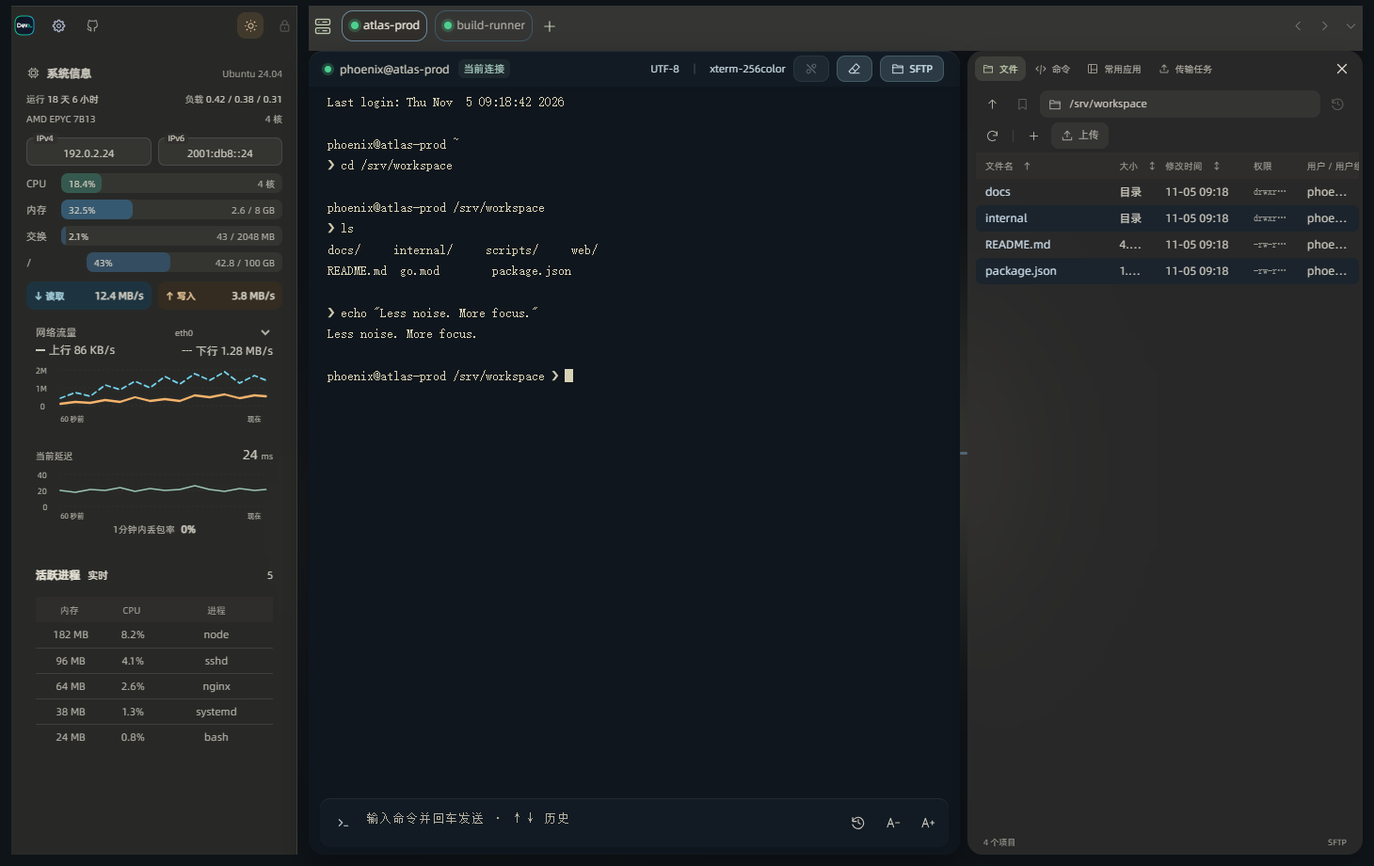
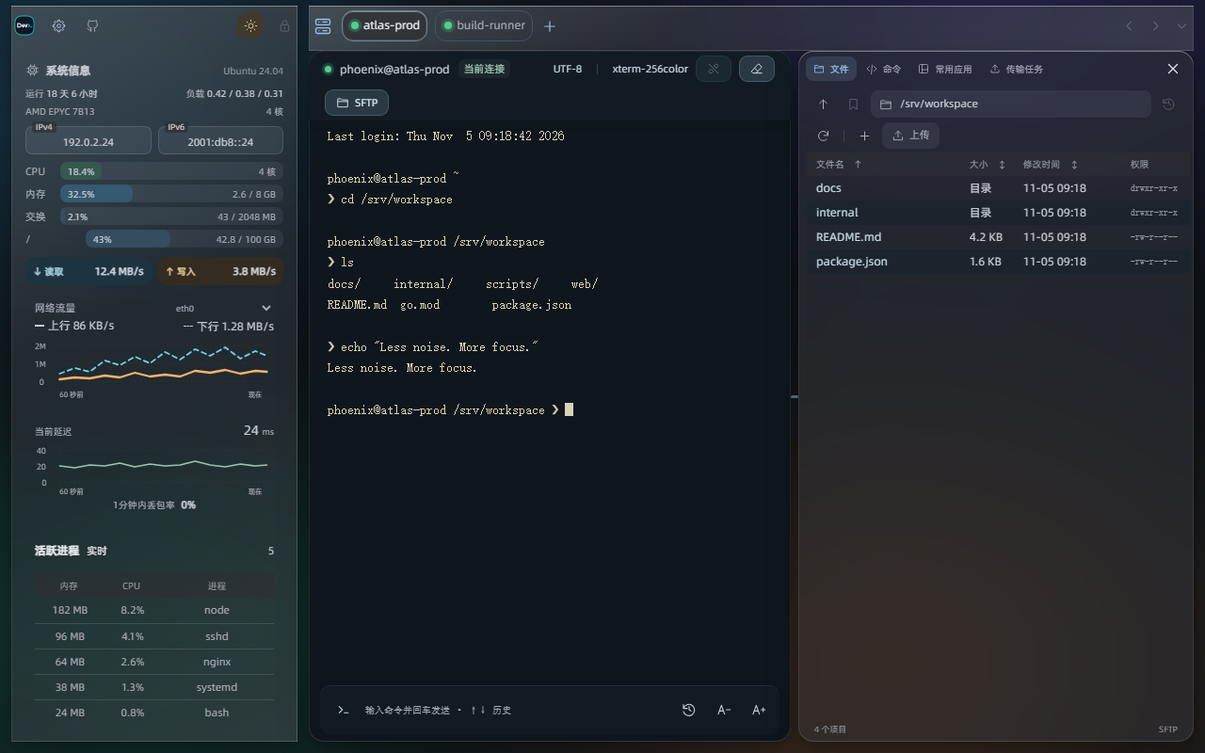
毛玻璃升级为液态玻璃折射材质
面板更透明并加强底衬饱和（saturate 1.5–1.7），底层四团光色缓慢漂移
供折射（liquid-drift，减少动态时静止）；--glass-edge 内阴影模拟边缘
聚光、--glass-sheen 叠加镜面光泽，配长弥散投影。配色由暖灰转向冷
玻璃、强调色改湖蓝；默认终端文字改冷灰 #dbe1e8。展示名毛玻璃改为
液态玻璃（样式键 frosted 不变，已存偏好无缝沿用），回退链保持不变。

验证：npm run check、test:theme、test:tcp 通过；预览与截图重新生成，
浅深色均验证边缘高光与折射效果。

diff --git a/web/css/ui-styles.css b/web/css/ui-styles.css
@@ -30,13 +30,14 @@
 [data-theme="dark"] .ui-style-swatch-classic { background:#0f1419; }
 [data-theme="dark"] .ui-style-swatch-classic :is(i,b) { background:#24303a; }
 [data-theme="dark"] .ui-style-swatch-classic em { background:#0f161d; }
-.ui-style-swatch-frosted { background:#45413a; }
-.ui-style-swatch-frosted i { inset:0 auto 0 0; width:29%; border-radius:0; background:#302f2ccc; border-right:1px solid #fff9e31c; }
-.ui-style-swatch-frosted b { background:#3d3c39dd; box-shadow:inset 0 1px #fffbe521; }
-.ui-style-swatch-frosted em { background:#242423ca; box-shadow:inset 0 1px #fffbe526,0 0 22px #96804f3d; }
-[data-theme="light"] .ui-style-swatch-frosted { background:#e8e6df; }
-[data-theme="light"] .ui-style-swatch-frosted i { background:#f1f0eaba; border-color:#55533c24; }
-[data-theme="light"] .ui-style-swatch-frosted b { background:#fffefad1; box-shadow:inset 0 1px #fff; }
+.ui-style-swatch-frosted { background:#22252b; }
+.ui-style-swatch-frosted i { inset:0 auto 0 0; width:29%; border-radius:0; background:#2e3238b3; border-right:1px solid #ffffff20; box-shadow:inset -14px 0 26px -14px #4f97d466; }
+.ui-style-swatch-frosted b { background:#383c43cc; box-shadow:inset 0 1px #ffffff4d; }
+.ui-style-swatch-frosted em { background:#181a1da6; box-shadow:inset 0 1px #ffffff33,0 0 22px #4f97d433; }
+[data-theme="light"] .ui-style-swatch-frosted { background:#dde2e9; }
+[data-theme="light"] .ui-style-swatch-frosted i { background:#ffffff8c; border-color:#3c4d5f33; }
+[data-theme="light"] .ui-style-swatch-frosted b { background:#ffffffd9; box-shadow:inset 0 1px #fff; }
+[data-theme="light"] .ui-style-swatch-frosted em { background:#1d2126bf; box-shadow:inset 0 1px #ffffff2e; }
 .ui-style-swatch-polar { background:#20242c; }
 .ui-style-swatch-polar i { background:#2e3440dd; border-right:1px solid #434c5e; }
 .ui-style-swatch-polar b { background:#3b4252; }
@@ -56,65 +57,79 @@
 #ui-styles-dialog .ui-style-status { margin:0; min-height:18px; font-size:12px; color:var(--muted); }
 @media(max-width:520px) { #ui-styles-dialog { padding:18px; } .ui-style-grid { gap:10px; } .ui-style-swatch { height:88px; } }
 
-/* —— 毛玻璃：中性暖灰透光材质（经典保持原配色不受影响） —— */
+/* —— 液态玻璃：折射底层色彩并在边缘聚光的半透明材质（经典配色不受影响）。
+   区别于平铺磨砂：面板更透明、底衬采样加强饱和，让底层流动的光色透过玻璃；
+   边缘高光与内阴影模拟透镜聚光，表面罩一层镜面光泽，配长而弥散的投影，
+   面板像悬浮在内容之上的玻璃板。样式键保持 frosted，仅展示名改为液态玻璃。 —— */
 :root[data-ui-style="frosted"][data-theme] {
-  --glass-base:#393633; --glass-surface:rgb(47 46 44 / .79); --glass-toolbar:rgb(61 60 57 / .84);
-  --glass-sidebar:rgb(48 47 44 / .76); --glass-popup:rgb(48 47 44 / .96); --glass-input:rgb(255 250 230 / .055);
-  --glass-terminal:rgb(30 30 29 / .68); --glass-solid:#302f2c; --glass-terminal-solid:#242423;
-  --surface:var(--glass-surface); --surface-inset:var(--glass-input); --surface-hover:#fff7df0c; --surface-selected:#bcc9ac24;
-  --text:#e6e2d6; --text-secondary:#c9c6bb; --muted:#b0ada3; --text-faint:#a09e95; --accent:#c1ceb0; --border:#fff9e31c;
-  --focus-surface:#bcc9ac28; --focus-input:#3d3b36; --primary-focus:#7b8b6e; --shadow:0 8px 28px #0003;
+  --glass-base:#2a2c30; --glass-sheen:linear-gradient(150deg,#ffffff22,#ffffff00 42%,#ffffff00 58%,#ffffff0f);
+  --glass-surface:rgb(45 47 51 / .66); --glass-toolbar:rgb(56 58 62 / .64);
+  --glass-sidebar:rgb(45 47 51 / .68); --glass-popup:rgb(48 50 54 / .84); --glass-input:rgb(232 240 250 / .07);
+  --glass-terminal:rgb(19 21 23 / .64); --glass-solid:#313338; --glass-terminal-solid:#1b1d20;
+  --glass-edge:inset 0 1px 0 #ffffff55,inset 0 -1px 0 #ffffff14,inset 0 0 0 1px #ffffff14;
+  --surface:var(--glass-surface); --surface-inset:var(--glass-input); --surface-hover:#ffffff12; --surface-selected:#9fc4e024;
+  --text:#e7eaf0; --text-secondary:#c9cdd5; --muted:#a9adb6; --text-faint:#979ca6; --accent:#93c2e8; --border:#ffffff20;
+  --focus-surface:#93c2e826; --focus-input:#3a3d42; --primary-focus:#5f89ab; --shadow:0 16px 44px -12px #00000066,0 2px 10px #00000038;
   color-scheme:dark; background:var(--glass-base); color:var(--text);
 }
 :root[data-ui-style="frosted"][data-theme="light"] {
-  --glass-base:#e8e6df; --glass-surface:rgb(250 249 245 / .76); --glass-toolbar:rgb(255 254 250 / .82);
-  --glass-sidebar:rgb(241 240 234 / .72); --glass-popup:rgb(252 251 247 / .96); --glass-input:rgb(75 70 52 / .055);
-  --glass-solid:#f2f1eb; --surface-hover:#625f4d0c; --surface-selected:#687b5420;
-  --text:#35362f; --text-secondary:#55574c; --muted:#66685e; --text-faint:#76786c; --accent:#526944; --border:#55533c24;
-  --focus-surface:#687b5420; --focus-input:#f5f4ed; --primary-focus:#526944; --shadow:0 8px 28px #34342512;
+  --glass-base:#e9ecf0; --glass-sheen:linear-gradient(150deg,#ffffffd8,#ffffff00 44%,#ffffff00 60%,#ffffff66);
+  --glass-surface:rgb(255 255 255 / .58); --glass-toolbar:rgb(255 255 255 / .64);
+  --glass-sidebar:rgb(255 255 255 / .48); --glass-popup:rgb(252 253 255 / .84); --glass-input:rgb(35 55 75 / .06);
+  --glass-terminal:rgb(23 26 30 / .68); --glass-solid:#f3f5f7; --glass-terminal-solid:#1b1e21;
+  --glass-edge:inset 0 1px 0 #ffffffe0,inset 0 -1px 0 #ffffff66,inset 0 0 0 1px #7f93a724;
+  --surface:var(--glass-surface); --surface-inset:var(--glass-input); --surface-hover:#2f42560e; --surface-selected:#38678d1f;
+  --text:#2c333a; --text-secondary:#454c55; --muted:#5c646e; --text-faint:#707881; --accent:#2f6f9e; --border:#38495b22;
+  --focus-surface:#38678d1e; --focus-input:#fffffff2; --primary-focus:#2f6f9e; --shadow:0 16px 44px -12px #26364633,0 2px 10px #26364617;
   color-scheme:light;
 }
-[data-ui-style="frosted"][data-theme="light"] body::before { opacity:.24; }
-[data-ui-style="frosted"][data-theme="light"] :is(.primary-button,.dialog-actions .primary-button) { background:#657b55; color:#fff; }
+[data-ui-style="frosted"][data-theme="light"] body::before { opacity:.42; }
+[data-ui-style="frosted"][data-theme="light"] :is(.primary-button,.dialog-actions .primary-button) { background:#2f6f9e; color:#fff; }
 [data-ui-style="frosted"] body { background:var(--glass-base); color:var(--text); isolation:isolate; }
-[data-ui-style="frosted"] body::before { content:""; position:fixed; z-index:-1; pointer-events:none; width:24vw; height:34vh; left:39vw; top:30vh; border-radius:45%; background:#9f9256; opacity:.52; box-shadow:-150px 130px 90px 10px #a96150,140px 60px 100px 15px #9a947d; filter:blur(64px); }
-[data-ui-style="frosted"] .sidebar { background:var(--glass-sidebar); backdrop-filter:blur(32px) saturate(.85); -webkit-backdrop-filter:blur(32px) saturate(.85); box-shadow:inset -1px 0 var(--border),inset 0 1px 0 #ffffff14; }
+/* 底层大色斑缓慢漂移，为玻璃提供可折射的流动光色——液态玻璃的「液态」。
+   深色下压低强度：光色是透过玻璃的折射，不该把画布染浊。 */
+[data-ui-style="frosted"] body::before { content:""; position:fixed; z-index:-1; pointer-events:none; inset:-14%; opacity:.45;
+  background:radial-gradient(38% 44% at 22% 22%,#35708f,#0000 62%),radial-gradient(42% 38% at 76% 14%,#4a418f,#0000 64%),radial-gradient(46% 50% at 70% 80%,#8a5a35,#0000 62%),radial-gradient(40% 42% at 24% 76%,#2a7a66,#0000 64%);
+  filter:blur(80px) saturate(1.25); animation:liquid-drift 36s ease-in-out infinite alternate; }
+@keyframes liquid-drift { from { transform:translate3d(-2.5%,-1.5%,0) scale(1.05); } to { transform:translate3d(2.5%,2%,0) scale(1.14); } }
+[data-ui-style="frosted"] .sidebar { background:var(--glass-sheen),var(--glass-sidebar); backdrop-filter:blur(26px) saturate(1.7) brightness(1.04); -webkit-backdrop-filter:blur(26px) saturate(1.7) brightness(1.04); box-shadow:var(--glass-edge),inset -1px 0 var(--border),var(--shadow); }
 [data-ui-style="frosted"] .sidebar :is(.system-section,.host-card,.disk-section,.network-card,.process-card,.process-details,.disk-resources,.disk-io) { background:transparent; box-shadow:none; backdrop-filter:none; -webkit-backdrop-filter:none; border-color:var(--border); }
-[data-ui-style="frosted"] :is(.session-bar,.files-panel) { background:var(--glass-surface); box-shadow:var(--shadow); backdrop-filter:blur(20px); -webkit-backdrop-filter:blur(20px); }
+[data-ui-style="frosted"] .files-panel { background:var(--glass-sheen),var(--glass-surface); box-shadow:var(--glass-edge),var(--shadow); backdrop-filter:blur(22px) saturate(1.7); -webkit-backdrop-filter:blur(22px) saturate(1.7); }
 /* Keep fixed window controls relative to the viewport: backdrop-filter on the
    header itself would create a new containing block for the floating brand. */
 [data-ui-style="frosted"] .session-bar { position:relative; isolation:isolate; background:transparent; backdrop-filter:none; -webkit-backdrop-filter:none; }
-[data-ui-style="frosted"] .session-bar::before { content:""; position:absolute; z-index:-1; inset:0; pointer-events:none; background:var(--glass-toolbar); border-radius:inherit; backdrop-filter:blur(20px); -webkit-backdrop-filter:blur(20px); }
+[data-ui-style="frosted"] .session-bar::before { content:""; position:absolute; z-index:-1; inset:0; pointer-events:none; background:var(--glass-sheen),var(--glass-toolbar); border-radius:inherit; box-shadow:var(--glass-edge); backdrop-filter:blur(24px) saturate(1.7) brightness(1.04); -webkit-backdrop-filter:blur(24px) saturate(1.7) brightness(1.04); }
 [data-ui-style="frosted"] .session-bar .brand { border-color:var(--border); }
 [data-ui-style="frosted"] .session-bar .window-controls { background:var(--surface-inset); }
 [data-ui-style="frosted"] .session-tab { color:var(--muted); background:transparent; }
-[data-ui-style="frosted"] .session-tab.active { background:var(--glass-popup); color:var(--text); box-shadow:0 1px 4px #00000012; }
-[data-ui-style="frosted"] .terminal-panel { background:var(--glass-terminal); box-shadow:inset 0 1px #fffbe51a,0 12px 32px #0005; backdrop-filter:blur(20px); -webkit-backdrop-filter:blur(20px); }
+[data-ui-style="frosted"] .session-tab.active { background:var(--glass-popup); color:var(--text); box-shadow:var(--glass-edge); }
+[data-ui-style="frosted"] .terminal-panel { background:var(--glass-sheen),var(--glass-terminal); box-shadow:var(--glass-edge),var(--shadow); backdrop-filter:blur(22px) saturate(1.5); -webkit-backdrop-filter:blur(22px) saturate(1.5); }
 [data-ui-style="frosted"] .terminal-panel::before,[data-ui-style="frosted"] .terminal-panel::after { display:none; background-image:none; }
-[data-ui-style="frosted"] .terminal-panel :is(.terminal-meta,.terminal-command-bar) { background:rgb(255 255 255 / .025); border-color:#ffffff14; backdrop-filter:none; -webkit-backdrop-filter:none; }
-[data-ui-style="frosted"] .terminal-panel :is(.terminal-tool,.terminal-protocol,#terminal-meta-host) { color:#cbc8bc; }
-[data-ui-style="frosted"] .terminal-panel .terminal-command-bar textarea { color:#ddd7c1; }
-[data-ui-style="frosted"] .terminal-panel .terminal-command-bar textarea::placeholder { color:#b6b1a2; }
-[data-ui-style="frosted"] .terminal-panel .terminal-tool:hover { background:#ffffff12; color:#fff; }
-[data-ui-style="frosted"] :is(dialog,.connections-drawer,.settings-menu,.popup-menu,.themed-select-popup) { background:var(--glass-popup); color:var(--text); border-color:var(--border); box-shadow:0 16px 48px #0003,inset 0 1px #ffffff1a; backdrop-filter:blur(28px) saturate(.9); -webkit-backdrop-filter:blur(28px) saturate(.9); }
+[data-ui-style="frosted"] .terminal-panel :is(.terminal-meta,.terminal-command-bar) { background:#ffffff08; border-color:#ffffff16; backdrop-filter:none; -webkit-backdrop-filter:none; }
+[data-ui-style="frosted"] .terminal-panel :is(.terminal-tool,.terminal-protocol,#terminal-meta-host) { color:#c7ccd4; }
+[data-ui-style="frosted"] .terminal-panel .terminal-command-bar textarea { color:#dfe3e9; }
+[data-ui-style="frosted"] .terminal-panel .terminal-command-bar textarea::placeholder { color:#a9aeb7; }
+[data-ui-style="frosted"] .terminal-panel .terminal-tool:hover { background:#ffffff14; color:#fff; }
+[data-ui-style="frosted"] :is(dialog,.connections-drawer,.settings-menu,.popup-menu,.themed-select-popup) { background:var(--glass-sheen),var(--glass-popup); color:var(--text); border-color:var(--border); box-shadow:0 22px 64px #00000055,var(--glass-edge); backdrop-filter:blur(30px) saturate(1.6); -webkit-backdrop-filter:blur(30px) saturate(1.6); }
 [data-ui-style="frosted"] :is(.specs,.cpu-model,.metric,.chart-caption,.process-heading,.disk-row,.file-status,.file-table,.tree-row,.tree-shortcut,.connection-card-text,.drawer-heading h2,dialog h2,.brand) { color:var(--text); }
 [data-ui-style="frosted"] :is(.process-table,.file-table) :is(th,td),[data-ui-style="frosted"] .system-section :is(h2,b,strong) { color:var(--text-secondary); border-color:var(--border); }
 [data-ui-style="frosted"] :is(.file-table thead,.files-toolbar,.file-tabs,.file-status,.directory-tree,.commands-toolbar,.transfer-notice) { background:transparent; border-color:var(--border); }
 [data-ui-style="frosted"] :is(.file-search,.path-form,.connection-search,.meter,dialog input,dialog select,dialog textarea,.server-icon,.themed-select-trigger,.count-badge,.upload-button) { background:var(--glass-input); color:var(--text); border-color:var(--border); }
 [data-ui-style="frosted"] :is(.connection-card,.tree-row,.tree-shortcut,.file-tab).selected,[data-ui-style="frosted"] .file-tab.active,[data-ui-style="frosted"] .file-table tr.selected { background:var(--surface-selected); color:var(--accent); }
-[data-ui-style="frosted"] :is(.primary-button,.dialog-actions .primary-button) { background:#89967a; color:#10130e; }
+[data-ui-style="frosted"] :is(.primary-button,.dialog-actions .primary-button) { background:#5f89ab; color:#f2f7fc; }
 [data-ui-style="frosted"] button:focus-visible { outline:2px solid var(--accent); outline-offset:2px; }
-[data-ui-style="frosted"] :is(#appearance-dialog .font-list .font-sample,.font-preview,.ui-color-sample.dark,.color-dialog-preview,#diagnostics-output) { background:var(--glass-terminal-solid); color:#d8d2b5; border-color:var(--border); }
+[data-ui-style="frosted"] :is(#appearance-dialog .font-list .font-sample,.font-preview,.ui-color-sample.dark,.color-dialog-preview,#diagnostics-output) { background:var(--glass-terminal-solid); color:#dbe1e8; border-color:var(--border); }
 /* Stable opaque equivalents preserve readability when transparency is unavailable. */
 @supports not ((backdrop-filter:blur(1px)) or (-webkit-backdrop-filter:blur(1px))) {
   [data-ui-style="frosted"] body::before { display:none; }
-  :root[data-ui-style="frosted"][data-theme] { --glass-surface:var(--glass-solid); --glass-toolbar:var(--glass-solid); --glass-sidebar:var(--glass-solid); --glass-popup:var(--glass-solid); --glass-terminal:var(--glass-terminal-solid); }
+  :root[data-ui-style="frosted"][data-theme] { --glass-sheen:none; --glass-edge:0 0 0 0 transparent; --glass-surface:var(--glass-solid); --glass-toolbar:var(--glass-solid); --glass-sidebar:var(--glass-solid); --glass-popup:var(--glass-solid); --glass-terminal:var(--glass-terminal-solid); }
 }
 @media (prefers-reduced-transparency:reduce) {
   [data-ui-style="frosted"] body::before { display:none; }
-  :root[data-ui-style="frosted"][data-theme] { --glass-surface:var(--glass-solid); --glass-toolbar:var(--glass-solid); --glass-sidebar:var(--glass-solid); --glass-popup:var(--glass-solid); --glass-terminal:var(--glass-terminal-solid); }
+  :root[data-ui-style="frosted"][data-theme] { --glass-sheen:none; --glass-edge:0 0 0 0 transparent; --glass-surface:var(--glass-solid); --glass-toolbar:var(--glass-solid); --glass-sidebar:var(--glass-solid); --glass-popup:var(--glass-solid); --glass-terminal:var(--glass-terminal-solid); }
   [data-ui-style="frosted"] .session-bar::before,[data-ui-style="frosted"] :is(.sidebar,.session-bar,.files-panel,.terminal-panel,dialog,.connections-drawer,.settings-menu,.popup-menu,.themed-select-popup) { backdrop-filter:none; -webkit-backdrop-filter:none; }
 }
+@media (prefers-reduced-motion:reduce) { [data-ui-style="frosted"] body::before { animation:none; } }
 @media (forced-colors:active) {
   [data-ui-style="frosted"] body::before,[data-ui-style="frosted"] .session-bar::before { display:none; }
   [data-ui-style="frosted"] :is(.sidebar,.session-bar,.files-panel,.terminal-panel,dialog,.connections-drawer,.settings-menu,.popup-menu,.themed-select-popup) { background:Canvas; color:CanvasText; outline:1px solid CanvasText; backdrop-filter:none; -webkit-backdrop-filter:none; box-shadow:none; }

diff --git a/web/js/help-guide.js b/web/js/help-guide.js
@@ -18,7 +18,7 @@
     { id: 'monitor', title: '系统、进程与磁盘', icon: 'cpu', html: `<p>左侧上方以对应操作系统图标和完整名称突出显示发行版，并显示当前服务器的运行时间、CPU、内存、交换空间和负载；活跃进程常驻显示前五，可按 CPU 或内存切换排名。点击进程区域打开独立的完整进程标签，支持按 PID、名称或状态搜索，以及 CPU、内存、PID、状态和名称排序。每页显示 50、100 或 200 行；每个服务器保留自己的搜索和分页。可暂停自动刷新，切走进程标签后停止该页面请求。完整列表的 RSS 使用轻量内核计数，估算值带“≈”；侧栏只对前五候选精读内存。大量进程或采集较慢时自动降低刷新频率，失败会保留上次数据并提示。</p><p>网络流量每<strong>1秒</strong>独立采样，负载、CPU、内存和磁盘速率每<strong>5秒</strong>采样；网卡元信息和磁盘容量约30秒刷新。每条已连接SSH的网卡流量在后台持续记录，切换标签或最小化也保留最近30秒真实历史；回到标签时立即显示。负载、CPU、内存和磁盘等其它采样仍按可见状态请求。网络使用远端实际时间差计算，SSH或TUN返回延迟不会被当成远端采样间隔。读数明确标注“上行”和“下行”，例如上行4.0 KiB/s、下行819 B/s。默认上行橙色实线、下行蓝色虚线，可在“设置 → 外观配置 → 曲线样式”中分别调整颜色、粗细和线型；刻度按最近<strong>60秒</strong>数据自动切换B/s、KiB/s、MiB/s、GiB/s刻度（1024进位），新峰值立即扩大范围，较小范围稳定5秒后缩小。缺测保留断点，不填入假零值。下方磁盘区域汇总已挂载本地磁盘文件系统的已用、可用和总计空间，包括独立的 /home、/data 等分区；同一文件系统的重复挂载只计算一次，排除内存盘、网络挂载、容器叠加层及 SWAP。容量以文件系统报告值为准，不包含未挂载空间，可用空间可能因文件系统保留空间而少于总计减已用。容器或存储池根文件系统无法安全合计时，保留根文件系统容量。读写速度仍显示在下方，悬停容量区域可查看参与汇总的路径。</p><p>IPv4/IPv6面板只显示可确认的公网地址，点击复制，悬停查看来源；可能显示SSH入口或网卡地址。NAT入口不等于服务器出口，无法确认时显示“—”。真实内网地址仍保留在网卡菜单提示中。</p><p>这些数值来自远程服务器的周期采样，不是本机硬件数据。刚连接时需要等待首轮采样；部分权限或系统接口不可用时可能显示“—”。较窄窗口可通过顶部芯片图标打开侧栏。</p>` },
     { id: 'network', title: 'ICMP 与 MTR 网络诊断', icon: 'network', html: `<p>ICMP 区域展示本机到服务器的当前延迟、最近 1 分钟丢包率和延迟连续曲线。曲线从左到右由旧到新，经过真实采样并保留峰值；丢包和缺测位置断开。刻度与曲线使用同一坐标系；左侧毫秒刻度按当前样本调整，非零起点有断轴标记。成功回包使用同一种颜色，红叉代表超时或不可达（延迟未知），灰点代表待回包或本机探测不可用。悬停可查看时间、读数和状态，也可聚焦图表后用左右方向键逐项查看。</p><p>点击网络区域可打开 MTR 诊断。可以从本机探测服务器，也可以从远程服务器探测你指定的目标，查看每一跳的响应和可用的 ASN 信息。</p><ul><li>缺少 <code>mtr</code> 时，界面会显示安装方案和命令，只有明确确认后才开始安装。</li><li>需要交互验证时，按提示在对应终端完成；安装后可以重新检测。</li><li>中间路由器可能不响应或限制探测包，单个中间节点不回复不能直接判断业务流量丢包。</li><li>代理、TUN、路由和目标是否允许 ICMP，都会影响结果。ICMP 数值不是 SSH 会话的按键响应计时。</li></ul>` },
     { id: 'fonts', title: '字体、加粗与文字颜色', icon: 'type', html: `<p>左上角设置 → 外观配置 → <strong>Shell 字体与颜色</strong>打开字体管理器。内置 JetBrains Mono、Fira Code、Source Code Pro、IBM Plex Mono、Maple Mono CN 五款字体，Maple 同时补齐中文。在线字体库提供 30 款 Shell 字体，确认后下载并保存到本机；也可导入 TTF、OTF、WOFF、WOFF2 字体。</p><ul><li>点击字体卡片立即切换终端字体；字号控件与终端 A− / A+ 均按 <strong>0.5 px</strong> 调整，范围为 8–40 px。可输入例如 14.5，选择会保存，重启后保留。</li><li>每张卡片都有独立的<strong>加粗</strong>和<strong>颜色</strong>控件，颜色按钮打开可拖动的配色窗口。可用预设色、颜色选择器、RGB 数值或 HEX 颜色。</li><li>当前字体的修改立即预览；修改其他卡片只保存那款字体的样式，切换过去后再应用。</li><li>字体管理器可拖动，不遮暗终端，方便观察真实显示效果。可以删除自行导入的字体。</li></ul><p>外观配置中的<strong>提示符颜色</strong>可分别调整 @ 前的用户名和 @ 后的主机名，支持预设色、RGB、HEX 和拖动预览；Bash / Zsh / Fish 在下次提示符出现时生效，两项选择“保持原样”恢复原提示符。终端默认文字颜色可自定义，远程程序主动设置的 ANSI 颜色仍保留其含义。自定义字体的符号覆盖和等宽效果取决于字体本身。</p>` },
-    { id: 'appearance', title: '背景、主题、布局与缩放', icon: 'image', html: `<p>设置 → 外观配置 → <strong>背景管理器</strong>可选择内置背景或导入 PNG、JPG、WebP 图片，并调整显示强度。选择后立即应用；面板可拖动，自定义背景可删除。</p><ul><li>外观配置中的<strong>终端 ANSI 颜色</strong>提供柔和、高饱和、鲜亮三套 16 色预设，本地调整 ls、vim 等程序彩色文件名等语义色，切换即时生效；真彩色与 256 色不受影响。</li><li>外观配置中的<strong>全局主题</strong>提供经典、毛玻璃、极地、夜幕四种整套界面材质，切换会重绘面板、菜单、对话框与强调色，并与明暗模式、字体、ANSI、背景与布局互相独立；毛玻璃浅色为雾白、深色为烟灰，不使用背景图（原背景选择会保留），系统不支持透明模糊或开启减少透明度时自动回退同色实底；极地为 Nord 式北极冷调，夜幕为 Tokyo Night 式深夜蓝紫，两者两种明暗下终端都保持深色阅读底。选择后立即生效并保存。</li><li>外观配置中的<strong>明暗跟随系统</strong>让Windows和Linux随桌面偏好切换主题，选择会保存。左上角太阳 / 月亮按钮手动切换浅色和深色时会退出跟随；重新打开该开关即可恢复。系统变化和手动变化都使用开灯/关灯渐变。</li><li>默认最小窗口宽度为 1100 px（小屏幕以可用工作区为限）。监控栏宽度固定为 304 px，右侧 SFTP 面板宽度固定为 420 px；打开右侧面板会扩展窗口，关闭时收回扩展的宽度。最大化或屏幕空间不足时自动调整缩放，保证工具按钮可见。上方、下方的 SFTP 面板仍可拖动分隔条调整高度；SFTP 面板的位置（终端下方／右侧／上方）统一在设置的「SFTP面板」中选择，面板内右上角的按钮只用于关闭面板；「跟随终端目录」也同样是设置中的下拉选择，默认开启。</li><li>设置中的<strong>界面缩放</strong>调整整个应用；终端的字号按钮只改变终端文字。</li><li>设置中的<strong>简洁模式</strong>一键隐藏监控面板、SFTP 面板与终端标题栏（含断开、固定、SFTP 按钮），并把底部命令输入条自动收起为左侧按钮（点按钮可临时展开）；关闭开关后监控面板与标题栏恢复，SFTP 面板不自动展开，需要时手动打开。</li><li>窗口较小时会适当限制实际缩放，避免控件被挤出窗口；放大窗口后恢复所选比例。</li><li>外观配置中的<strong>主题管理</strong>把当前整套外观（明暗模式、全局主题、界面与终端字体颜色、ANSI 预设、背景与强度、终端字号、曲线样式、提示符颜色）保存为独立主题：从当前外观新建，支持应用、重命名、复制与两步确认删除。应用时整套生效；主题引用的字体或背景若已被删除会报错并保持当前外观不变。主题不影响布局与界面缩放。</li><li>外观配置中的“恢复默认布局”恢复布局和终端字号。</li></ul>` },
+    { id: 'appearance', title: '背景、主题、布局与缩放', icon: 'image', html: `<p>设置 → 外观配置 → <strong>背景管理器</strong>可选择内置背景或导入 PNG、JPG、WebP 图片，并调整显示强度。选择后立即应用；面板可拖动，自定义背景可删除。</p><ul><li>外观配置中的<strong>终端 ANSI 颜色</strong>提供柔和、高饱和、鲜亮三套 16 色预设，本地调整 ls、vim 等程序彩色文件名等语义色，切换即时生效；真彩色与 256 色不受影响。</li><li>外观配置中的<strong>全局主题</strong>提供经典、液态玻璃、极地、夜幕四种整套界面材质，切换会重绘面板、菜单、对话框与强调色，并与明暗模式、字体、ANSI、背景与布局互相独立；液态玻璃面板高度透明并加强底衬饱和，底层光色透过玻璃折射流动、边缘带聚光高光与镜面光泽，不使用背景图（原背景选择会保留），系统不支持透明模糊或开启减少透明度时自动回退同色实底；极地为 Nord 式北极冷调，夜幕为 Tokyo Night 式深夜蓝紫，两者两种明暗下终端都保持深色阅读底。选择后立即生效并保存。</li><li>外观配置中的<strong>明暗跟随系统</strong>让Windows和Linux随桌面偏好切换主题，选择会保存。左上角太阳 / 月亮按钮手动切换浅色和深色时会退出跟随；重新打开该开关即可恢复。系统变化和手动变化都使用开灯/关灯渐变。</li><li>默认最小窗口宽度为 1100 px（小屏幕以可用工作区为限）。监控栏宽度固定为 304 px，右侧 SFTP 面板宽度固定为 420 px；打开右侧面板会扩展窗口，关闭时收回扩展的宽度。最大化或屏幕空间不足时自动调整缩放，保证工具按钮可见。上方、下方的 SFTP 面板仍可拖动分隔条调整高度；SFTP 面板的位置（终端下方／右侧／上方）统一在设置的「SFTP面板」中选择，面板内右上角的按钮只用于关闭面板；「跟随终端目录」也同样是设置中的下拉选择，默认开启。</li><li>设置中的<strong>界面缩放</strong>调整整个应用；终端的字号按钮只改变终端文字。</li><li>设置中的<strong>简洁模式</strong>一键隐藏监控面板、SFTP 面板与终端标题栏（含断开、固定、SFTP 按钮），并把底部命令输入条自动收起为左侧按钮（点按钮可临时展开）；关闭开关后监控面板与标题栏恢复，SFTP 面板不自动展开，需要时手动打开。</li><li>窗口较小时会适当限制实际缩放，避免控件被挤出窗口；放大窗口后恢复所选比例。</li><li>外观配置中的<strong>主题管理</strong>把当前整套外观（明暗模式、全局主题、界面与终端字体颜色、ANSI 预设、背景与强度、终端字号、曲线样式、提示符颜色）保存为独立主题：从当前外观新建，支持应用、重命名、复制与两步确认删除。应用时整套生效；主题引用的字体或背景若已被删除会报错并保持当前外观不变。主题不影响布局与界面缩放。</li><li>外观配置中的“恢复默认布局”恢复布局和终端字号。</li></ul>` },
     { id: 'config', title: '配置、备份与换电脑', icon: 'folder', html: `<p>设置 → <strong>连接配置文档</strong>可查看实际保存位置并复制路径。便携版默认使用程序旁 data 目录；deb 版使用用户配置目录。</p><ol><li><strong>升级：</strong>在同一目录中替换可执行程序，保留配置文件和资源。</li><li><strong>备份或换电脑：</strong>一起复制 <code>devshell.config.enc</code>、<code>devshell.config.key</code>、<code>assets/</code> 和 <code>keys/</code>，不要只复制加密配置文件。</li><li><strong>恢复：</strong>退出应用，将整套备份放回实际配置目录，再启动。手动指定的外部私钥需要另行复制并检查路径。</li></ol><p>多个窗口共享同一配置服务，保存时只合并实际修改的设置、字体样式键和历史键，避免旧快照覆盖其他窗口的新设置；同一项同时修改时以最后成功保存为准。程序使用旁边的密钥文件自动解锁配置；加密不防止文件被删除。新程序目录没有配置时不会自动读取旧的用户目录，请按“连接配置文档”中的迁移说明处理。具体位置以应用显示的实际路径为准。</p>` },
     { id: 'startup', title: '启动、版本与再次查看帮助', icon: 'settings', html: `<p>首次功能引导会在版本提示结束后出现；“暂时结束”、关闭按钮或 <kbd>Esc</kbd> 都可以提前结束，并记录为已查看。</p><p>启动时可检查版本信息。发现新版本时显示当前版本、新版本和更新说明，可以选择“稍后再说”。Windows、Debian/Ubuntu 和 Arch pacman 版确认在线升级后会下载、验证发行签名并安装更新；Linux 安装需要系统授权。旧 Arch 客户端须先手动安装一次 R28 或更新版。其他 Linux 系列可到官网下载 RPM 或通用安装包。替换主程序需要重新启动并断开会话；可备份配置后在原目录手动替换程序。</p><p>设置按钮左侧的书本图标始终是本手册入口。手册支持关键词搜索和章节跳转，下方“重新查看引导”会从第一步重新开始；查看说明不会创建连接或执行命令。</p>` },
     { id: 'file-editor', title: '文件右键菜单与文本编辑器', icon: 'file', html: `<p>双击文件默认进入内置文本编辑器。左侧目录树不响应右键。右侧右键文件或目录可以打开、选择打开方式、删除、快速删除、重命名、打包下载、复制路径及修改权限；空白处右键可以刷新、新建文件或文件夹。</p><p>文本编辑器支持 UTF-8、带 BOM 的 UTF-8 / UTF-16、GB18030、GBK 和 Big5，保留原有 BOM、空格及混合换行。粘贴按剪贴板交付的 Unicode 原样插入；操作系统已经转换的原始字节无法从剪贴板恢复。编码不明确时需手动选择，不猜测后静默保存。单文件最大 8 MiB。</p><p>每个文件拥有独立标签、文本和撤销记录，可同时打开不同服务器的文件。标签显示服务器、文件名及“当前查看”；可移到新的可拖动编辑窗口，每个窗口都有自己的标签栏。收起后通过文件工具栏“文本编辑器”恢复。关闭未保存文件会询问，连接断开后保留草稿供复制。Ctrl+Tab 切换文件，Ctrl+W 关闭当前文件。</p><p>按 Ctrl+S 保存到文件原所属服务器；保存前检查远程文件是否被其他程序改动，原子替换并保留权限与所有者。系统关联在本地打开下载的副本，可指定编辑器可执行文件；外部修改后需要手动上传。右键菜单的<strong>删除</strong>和<strong>快速删除</strong>都先弹出确认框，列出服务器和完整路径；目录删除包含子项且无法撤销。切换页签不会改变已确认的目标；原连接若已断开，本次删除不会执行。打包在本机进行，不占用远程压缩进程。</p>` },

diff --git a/docs/design/global-themes-preview.html b/docs/design/global-themes-preview.html
@@ -32,7 +32,7 @@
   <link rel="stylesheet" href="../../web/css/system-identity.css?v=20260920-v002-b70">
   <link rel="stylesheet" href="../../web/css/chart-styles.css?v=20260920-v002-b70">
   <link rel="stylesheet" href="../../web/css/theme-manager.css?v=20261104-thememgr1">
-  <link rel="stylesheet" href="../../web/css/ui-styles.css?v=20261105-uistyles1">
+  <link rel="stylesheet" href="../../web/css/ui-styles.css?v=20261105-liquidglass1">
   <link rel="stylesheet" href="../../web/css/light-theme.css?v=20261101-hdrmerge1">
   <link rel="stylesheet" href="../../web/css/ui-appearance.css?v=20260920-v002-b70">
   <link rel="stylesheet" href="../../web/css/security-lock.css?v=20260920-v002-b70">
@@ -43,7 +43,7 @@
   <style>
     /* 只有终端演示文本需要样式；全部控件使用产品 CSS。 */
     .preview-terminal-copy { margin:0; color:var(--terminal-foreground,#d3e0e8); font:14px/1.6 var(--terminal-family,monospace); white-space:pre; }
-    [data-ui-style="frosted"] .preview-terminal-copy { color:#d8d2b5; }
+    [data-ui-style="frosted"] .preview-terminal-copy { color:#dbe1e8; }
     :root[data-preview-opaque="true"][data-ui-style="frosted"] { --glass-surface:var(--glass-solid); --glass-toolbar:var(--glass-solid); --glass-sidebar:var(--glass-solid); --glass-popup:var(--glass-solid); --glass-terminal:var(--glass-terminal-solid); }
     [data-preview-opaque="true"] body::before { display:none; }
   </style>
@@ -210,7 +210,7 @@
     </div></fieldset>
     <fieldset><legend>工作台样式</legend><div class="ui-style-grid">
       <button type="button" class="ui-style-card" data-ui-style="classic"><span class="ui-style-swatch ui-style-swatch-classic" aria-hidden="true"><i></i><b></b><em></em></span><span class="ui-style-card-heading">经典 <span class="ui-style-selected">✓</span></span><small>沿用熟悉的蓝灰配色；背景图与强度照常可用。</small><span class="ui-style-card-meta">不透明面板 · 全部背景可选</span></button>
-      <button type="button" class="ui-style-card" data-ui-style="frosted"><span class="ui-style-swatch ui-style-swatch-frosted" aria-hidden="true"><i></i><b></b><em></em></span><span class="ui-style-card-heading">毛玻璃 <span class="ui-style-selected">✓</span></span><small>浅色雾白、深色烟灰；面板半透明，柔光轻透。</small><span class="ui-style-card-meta">透光材质 · 不使用背景图（原选择保留）</span></button>
+      <button type="button" class="ui-style-card" data-ui-style="frosted"><span class="ui-style-swatch ui-style-swatch-frosted" aria-hidden="true"><i></i><b></b><em></em></span><span class="ui-style-card-heading">液态玻璃 <span class="ui-style-selected">✓</span></span><small>底层光色透过玻璃折射流动，边缘聚光高光；浅色如清水、深色如烟熏。</small><span class="ui-style-card-meta">折射材质 · 不使用背景图（原选择保留）</span></button>
       <button type="button" class="ui-style-card" data-ui-style="polar"><span class="ui-style-swatch ui-style-swatch-polar" aria-hidden="true"><i></i><b></b><em></em></span><span class="ui-style-card-heading">极地 <span class="ui-style-selected">✓</span></span><small>Nord 式北极冷调，浅色如雪、深色如极夜。</small><span class="ui-style-card-meta">低饱和冷灰蓝 · 青蓝强调色</span></button>
       <button type="button" class="ui-style-card" data-ui-style="twilight"><span class="ui-style-swatch ui-style-swatch-twilight" aria-hidden="true"><i></i><b></b><em></em></span><span class="ui-style-card-heading">夜幕 <span class="ui-style-selected">✓</span></span><small>Tokyo Night 式深夜蓝紫，柔光点缀不刺眼。</small><span class="ui-style-card-meta">深蓝紫夜色 · 蓝紫强调色</span></button>
     </div></fieldset>
@@ -247,7 +247,7 @@
   systemRow.innerHTML = '<span>明暗跟随系统<small id="follow-system-theme-hint"></small></span><input id="follow-system-theme" type="checkbox" role="switch" aria-describedby="follow-system-theme-hint">';
   $('#settings-appearance-view .settings-submenu-heading').after(systemRow);
   $('#ui-scale').value = '1';
-  const styleNames = { classic: '经典', frosted: '毛玻璃', polar: '极地', twilight: '夜幕' };
+  const styleNames = { classic: '经典', frosted: '液态玻璃', polar: '极地', twilight: '夜幕' };
   const validStyle = value => ['classic', 'frosted', 'polar', 'twilight'].includes(value) ? value : 'frosted';
   let style = validStyle(params.get('style'));
   let preference = ['light','dark','system'].includes(params.get('mode')) ? params.get('mode') : 'dark';

diff --git a/web/index.html b/web/index.html
@@ -36,7 +36,7 @@
   <link rel="stylesheet" href="css/system-identity.css?v=20260920-v002-b70">
   <link rel="stylesheet" href="css/chart-styles.css?v=20260920-v002-b70">
   <link rel="stylesheet" href="css/theme-manager.css?v=20261104-thememgr1">
-  <link rel="stylesheet" href="css/ui-styles.css?v=20261105-uistyles1">
+  <link rel="stylesheet" href="css/ui-styles.css?v=20261105-liquidglass1">
   <link rel="stylesheet" href="css/light-theme.css?v=20261101-hdrmerge1">
   <link rel="stylesheet" href="css/ui-appearance.css?v=20260920-v002-b70">
   <link rel="stylesheet" href="css/security-lock.css?v=20260920-v002-b70">
@@ -326,7 +326,7 @@
     </div></fieldset>
     <fieldset><legend>工作台样式</legend><div class="ui-style-grid">
       <button type="button" class="ui-style-card" data-ui-style="classic"><span class="ui-style-swatch ui-style-swatch-classic" aria-hidden="true"><i></i><b></b><em></em></span><span class="ui-style-card-heading">经典 <span class="ui-style-selected">✓</span></span><small>沿用熟悉的蓝灰配色；背景图与强度照常可用。</small><span class="ui-style-card-meta">不透明面板 · 全部背景可选</span></button>
-      <button type="button" class="ui-style-card" data-ui-style="frosted"><span class="ui-style-swatch ui-style-swatch-frosted" aria-hidden="true"><i></i><b></b><em></em></span><span class="ui-style-card-heading">毛玻璃 <span class="ui-style-selected">✓</span></span><small>浅色雾白、深色烟灰；面板半透明，柔光轻透。</small><span class="ui-style-card-meta">透光材质 · 不使用背景图（原选择保留）</span></button>
+      <button type="button" class="ui-style-card" data-ui-style="frosted"><span class="ui-style-swatch ui-style-swatch-frosted" aria-hidden="true"><i></i><b></b><em></em></span><span class="ui-style-card-heading">液态玻璃 <span class="ui-style-selected">✓</span></span><small>底层光色透过玻璃折射流动，边缘聚光高光；浅色如清水、深色如烟熏。</small><span class="ui-style-card-meta">折射材质 · 不使用背景图（原选择保留）</span></button>
       <button type="button" class="ui-style-card" data-ui-style="polar"><span class="ui-style-swatch ui-style-swatch-polar" aria-hidden="true"><i></i><b></b><em></em></span><span class="ui-style-card-heading">极地 <span class="ui-style-selected">✓</span></span><small>Nord 式北极冷调，浅色如雪、深色如极夜。</small><span class="ui-style-card-meta">低饱和冷灰蓝 · 青蓝强调色</span></button>
       <button type="button" class="ui-style-card" data-ui-style="twilight"><span class="ui-style-swatch ui-style-swatch-twilight" aria-hidden="true"><i></i><b></b><em></em></span><span class="ui-style-card-heading">夜幕 <span class="ui-style-selected">✓</span></span><small>Tokyo Night 式深夜蓝紫，柔光点缀不刺眼。</small><span class="ui-style-card-meta">深蓝紫夜色 · 蓝紫强调色</span></button>
     </div></fieldset>
@@ -403,9 +403,9 @@
   <script src="js/command-composer.js?v=20261001-composer"></script>
   <script src="js/workspace-tools.js?v=20260925-v002-b86"></script>
   <script src="js/release-note-tags.js?v=20261102-sectag1"></script>
-  <script src="js/appearance.js?v=20261105-uistyles1"></script>
-  <script src="js/ui-appearance.js?v=20261105-uistyles1"></script>
-  <script src="js/ui-styles.js?v=20261105-uistyles1"></script>
+  <script src="js/appearance.js?v=20261105-liquidglass1"></script>
+  <script src="js/ui-appearance.js?v=20261105-liquidglass1"></script>
+  <script src="js/ui-styles.js?v=20261105-liquidglass1"></script>
   <script src="js/font-library.js?v=20261019-brand1"></script>
   <script src="js/path-history.js?v=20260925-v002-b86"></script>
   <script src="js/directory-favorites.js?v=20260925-v002-b86"></script>
@@ -422,7 +422,7 @@
   <script src="js/server-manager.js?v=20261103-nohistory1"></script>
   <script src="js/backup-manager.js?v=20261103-nohistory1"></script>
   <script src="js/server-explorer.js?v=20261103-nohistory1"></script>
-  <script src="js/help-guide.js?v=20261105-uistyles1"></script>
+  <script src="js/help-guide.js?v=20261105-liquidglass1"></script>
   <script src="js/chart-styles.js?v=20260920-v002-b70"></script>
   <script src="js/theme-manager.js?v=20261104-thememgr1"></script>
   <script src="js/appearance-tools.js?v=20261102-concise4"></script>

diff --git a/web/js/appearance.js b/web/js/appearance.js
@@ -22,7 +22,7 @@ const fontColorPresets = [
 const validFontColor = color => typeof color === 'string' && /^#[\da-f]{6}$/i.test(color);
 // Frosted glass paints a dark reading base even in light mode, so its default
 // terminal ink is warm beige; custom per-font colours always win.
-const colorForFont = (id = appearance.fontId) => validFontColor(appearance.fontColors?.[id]) ? appearance.fontColors[id].toLowerCase() : appearance.uiStyle === 'frosted' ? '#d8d2b5' : terminalDefaultColor;
+const colorForFont = (id = appearance.fontId) => validFontColor(appearance.fontColors?.[id]) ? appearance.fontColors[id].toLowerCase() : appearance.uiStyle === 'frosted' ? '#dbe1e8' : terminalDefaultColor;
 const boldForFont = (id = appearance.fontId) => appearance.fontBold?.[id] === true;
 function normalizeTerminalFontSize(value) { const number=Number(value); return Number.isFinite(number) ? Math.max(8,Math.min(40,Math.round(number*2)/2)) : 14; }
 const ansiPalettes = {
@@ -392,7 +392,7 @@ async function openAppearance(kind) {
   const isFont = kind === 'font';
   if (isFont) document.getElementById('ui-appearance-dialog')?.close();
   $('#appearance-title').textContent = isFont ? '字体设置 · Shell 字体' : '背景管理器';
-  $('#appearance-description').textContent = isFont ? '每款字体单独设置加粗和颜色，点击字体即可应用。' : appearance.uiStyle === 'frosted' ? '背景设置用于经典主题；毛玻璃不使用背景图片，原有选择会保留。' : '背景立即生效，可拖动此面板观察终端。';
+  $('#appearance-description').textContent = isFont ? '每款字体单独设置加粗和颜色，点击字体即可应用。' : appearance.uiStyle === 'frosted' ? '背景设置用于经典主题；液态玻璃不使用背景图片，原有选择会保留。' : '背景立即生效，可拖动此面板观察终端。';
   $('#import-asset span').textContent = isFont ? '导入字体' : '导入背景';
   $('#asset-picker').accept = isFont ? '.ttf,.otf,.woff,.woff2' : '.png,.jpg,.jpeg,.webp';
   $('#background-strength').hidden = isFont; $('#font-preview').hidden = !isFont;

diff --git a/web/js/ui-appearance.js b/web/js/ui-appearance.js
@@ -128,7 +128,7 @@ window.DengUIAppearance = (() => {
   function fillColors() {
     if (!dialog) return;
     // Frosted glass ships its own warm ink defaults; custom colors still win.
-    const palette = appearance.uiStyle === 'frosted' ? { light: '#35362f', dark: '#e6e2d6' } : defaults;
+    const palette = appearance.uiStyle === 'frosted' ? { light: '#2c333a', dark: '#e7eaf0' } : defaults;
     for (const theme of ['light', 'dark']) {
       const row = dialog.querySelector(`[data-ui-color-theme="${theme}"]`), color = appearance.uiTextColors?.[theme] || palette[theme];
       row.querySelector('input[type=color]').value = color;

diff --git a/web/js/ui-styles.js b/web/js/ui-styles.js
@@ -7,7 +7,7 @@
   const status = document.getElementById('ui-style-status');
   const styles = [...dialog.querySelectorAll('[data-ui-style]')];
   const modes = [...dialog.querySelectorAll('[data-theme-mode]')];
-  const names = { classic: '经典', frosted: '毛玻璃', polar: '极地', twilight: '夜幕' };
+  const names = { classic: '经典', frosted: '液态玻璃', polar: '极地', twilight: '夜幕' };
   let saving = false;
   function currentStyle() { return ['frosted', 'polar', 'twilight'].includes(appearance.uiStyle) ? appearance.uiStyle : 'classic'; }
   function reflect() {

diff --git a/docs/design/GLOBAL-THEMES.md b/docs/design/GLOBAL-THEMES.md
@@ -24,17 +24,20 @@
 | 样式 | 浅色 | 深色 | 强调 | 模糊 |
 | --- | --- | --- | --- | --- |
 | 经典 | 现状不变 | 现状不变 | 现状 | 无 |
-| 毛玻璃 | 雾白 #faf9f5/76% | 烟灰 #2f2e2c/79% | 苔绿 #526944 / #c1ceb0 | 侧栏 32px、面板 20px、浮层 28px |
+| 液态玻璃 | 透璃白 rgb(255 255 255/58%) | 烟璃 #2d2f33/62% | 湖蓝 #2f6f9e / #93c2e8 | 侧栏 26px、面板 20–22px、浮层 30px（均加饱和） |
 | 极地 | 雪 #f6f9fc | 极夜板 #343c4a | 冰蓝 #3f6d94 / #88c0d0 | 无 |
 | 夜幕 | 日间 #eceef2 | 夜色板 #1f2133 | 蓝 #3763bd / #7aa2f7 | 无 |
 
 - 材质只重绘 CSS 变量（`--surface/--surface-inset/--surface-hover/--surface-selected/
   --text*/--accent/--border/--shadow`）与少量组件规则（顶栏伪元素、连续侧栏、
   终端面板、浮层），不新增布局、不改控件几何；经典完全不受影响。
-- **终端阅读底**：毛玻璃、极地、夜幕在两种明暗下都用深色终端底（毛玻璃
-  #1e1e1d/68%，实底 #242423；极地 #2b323e/浅 #3b4351；夜幕 #16161e/浅 #2a2f4a），
-  保证 ANSI 语义色可读；毛玻璃默认终端文字暖米 #d8d2b5，自定义字体颜色优先。
-- 毛玻璃不使用背景图（保存的 `backgroundId` 原样保留，切回经典即恢复）；
+- **终端阅读底**：液态玻璃、极地、夜幕在两种明暗下都用深色终端底（液态玻璃
+  #171a1e/68%，实底 #1b1e21；极地 #2b323e/浅 #3b4351；夜幕 #16161e/浅 #2a2f4a），
+  保证 ANSI 语义色可读；液态玻璃默认终端文字冷灰 #dbe1e8，自定义字体颜色优先。
+- 液态玻璃区别于平铺磨砂：面板更透明并加强底衬饱和（saturate 1.5–1.7），底层
+  四团光斑缓慢漂移（`liquid-drift`，`prefers-reduced-motion` 下静止），面板叠加
+  镜面光泽层（`--glass-sheen`）与边缘聚光内阴影（`--glass-edge`），配长弥散投影。
+- 液态玻璃不使用背景图（保存的 `backgroundId` 原样保留，切回经典即恢复）；
   极地/夜幕照常使用背景。
 - 回退：`@supports not (backdrop-filter)` 或 `prefers-reduced-transparency` →
   全部收敛到同色实底（--glass-solid / --glass-terminal-solid）；
@@ -66,4 +69,4 @@
 - 前端：`npm run check`；`test:theme` 增加 boot 样式、`setStyle` 白名单回退、
   setStyle 不直接持久化的断言。
 - 视觉：Edge 无头截图四样式×明暗 + 对话框（`docs/design/previews/`）。
-- 真机待办：macOS 原生窗口与 GPU 性能；毛玻璃在真实 WebView2 下的采样成本。
+- 真机待办：macOS 原生窗口与 GPU 性能；液态玻璃在真实 WebView2 下的采样成本。
